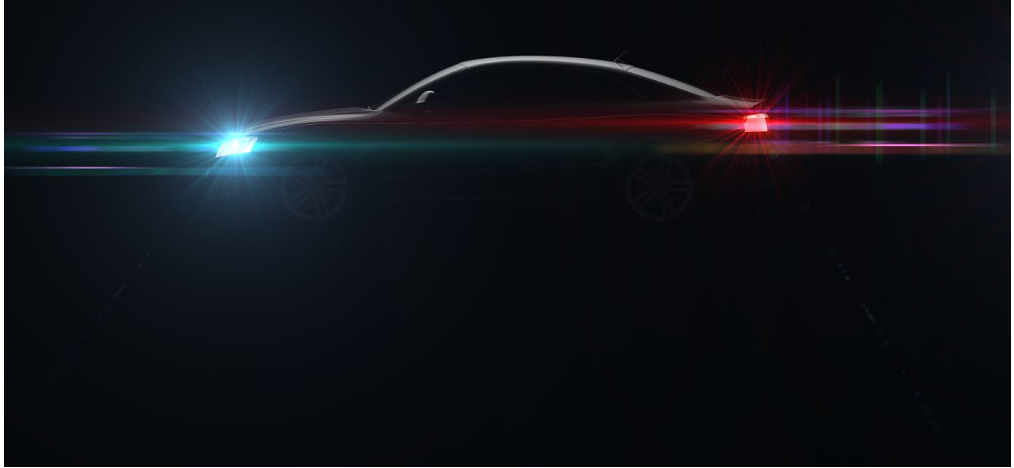
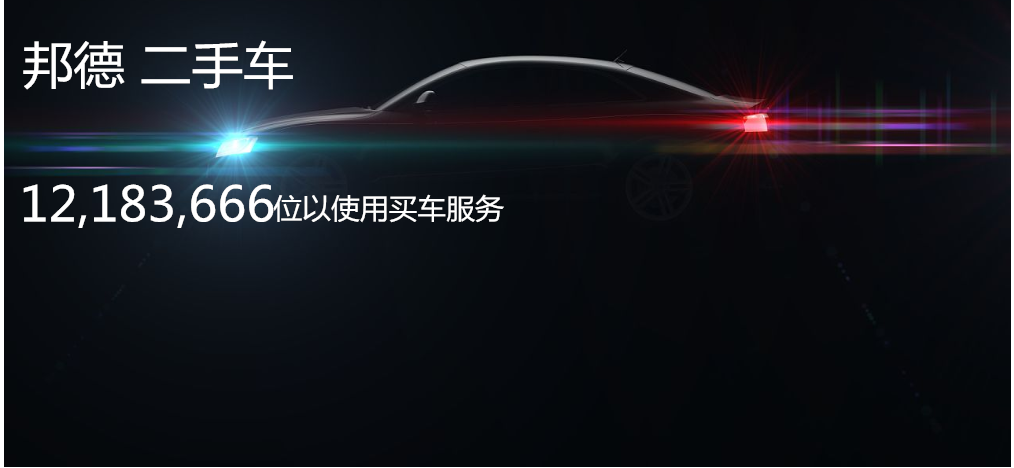
二手车1.2

Changed region(s): [[0.0306, 0.3889, 0.4892, 0.4786], [0.0306, 0.0897, 0.3057, 0.2094]]

diff --git a/二手车页面/src/view/car/car_assess.vue b/二手车页面/src/view/car/car_assess.vue
@@ -7,9 +7,9 @@
 			<p>★上牌地点：{{form.bkCitiy}}</p>
 			<p>★上牌时间：{{form.upbkTime}}</p>
 			<p>★行驶里程：{{form.mileage}}万公里</p>
-			<p>★精计算，您的爱车粗算价值</p>
+			<p>★经计算，您的爱车粗算价值</p>
 			<br/>
-			<p class="price-p">{{form.mprice}}万元</p>
+			<p class="price-p">{{minPrice}} ~ {{maxPrice}}万元</p>
 			<br/>
 			<p>★具体价格请来电咨询或预约卖车。</p>
 			<br>
@@ -133,6 +133,8 @@
 			return {
 				checkbox1:true,
 				show3:false,
+				minPrice:0,
+				maxPrice:0,
 				form:{
 					price:null,
 					brand:'',
@@ -218,34 +220,35 @@
 				
 				var mileage = this.form.mileage;
 				var oldIndex = mileage / 6;
-				var mlv = 0;
+				var mlv = 14;
 				if(oldIndex > 0){//6万公里以上
-				  if(oldIndex < 1){//小于6万公里
-						
-					}
-					if(oldIndex >= 1){
-						mlv += 5;
-					}
-					if(oldIndex >= 2){
-						mlv += 4;
-					}
-					if(oldIndex >=3){
-						mlv += 3;
-					}
-					if(oldIndex >= 4){
-						mlv += 2;
-					}
-					if(oldIndex >= 5){
-						mlv += 1;
+				  if(oldIndex <= 1){//小于6万公里
+						mlv = 14;
+					}else
+					if(oldIndex <= 2){
+						mlv = 10;
+					}else
+					if(oldIndex <= 3){
+						mlv = 6;
+					}else
+					if(oldIndex <= 4){
+						mlv = 3;
+					}else
+					if(oldIndex <= 5){
+						mlv = 1;
 					}
 				}
 				mlv = parseInt(mlv / 15 * 100);
 				mileagePrice = this.form.price * mlv / 100;
-				
+				console.log('mileagePrice,:',mileagePrice,'yearPrice:',yearPrice)
 				if(yearPrice > mileagePrice && mileagePrice > 0){
 					this.form.mprice = mileagePrice;
+					this.minPrice = mileagePrice;
+					this.maxPrice = yearPrice;
 				}else{
 					this.form.mprice = yearPrice;
+					this.minPrice = yearPrice;
+					this.maxPrice = mileagePrice;
 				}
 				this.show3 = true
 				this.save();

diff --git a/二手车页面/src/view/car/car_xq.vue b/二手车页面/src/view/car/car_xq.vue
@@ -97,6 +97,13 @@
 					<p>迁地标准</p>
 				</div>
 			</div>
+			<div class="clxx_title">咨询电话</div>
+			<div style="width: 100%;">
+				&nbsp;&nbsp;&nbsp;
+				座机号：<a href="tel:0692-2111599">0692-2111599</a>
+				&nbsp;&nbsp;
+				手机号：<a href="tel:13708625940">13708625940</a>
+			</div>
 			<div class="clxx_title" style="margin-bottom: .2rem;">车辆实拍</div>
 		</div>
 		
@@ -220,7 +227,7 @@
 		mounted() {
 			var id = this.$route.query.id;
 			if(id){
-				this.queryCar(id);
+				//this.queryCar(id);
 			}else{
 				this.$dialog.toast({
 					mes: '页面错误！',

diff --git a/二手车页面/src/view/car/car_index.vue b/二手车页面/src/view/car/car_index.vue
@@ -2,7 +2,6 @@
 
 	<div id='carIndex'>
 		<div class="index_bg">
-			<span id="numSpan">12,183,666</span>&nbsp;&nbsp;位已使用买车服务
 		</div>
 		<div class="search-title-div">
 			<i class="icon-search"></i>
